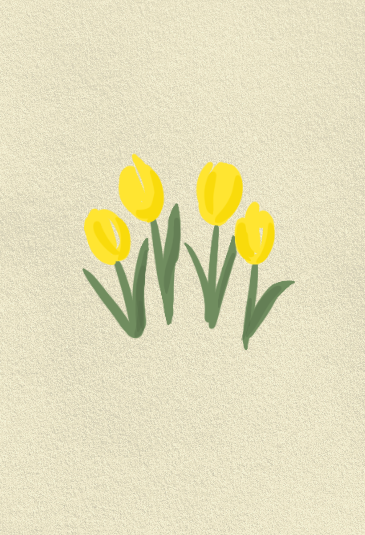
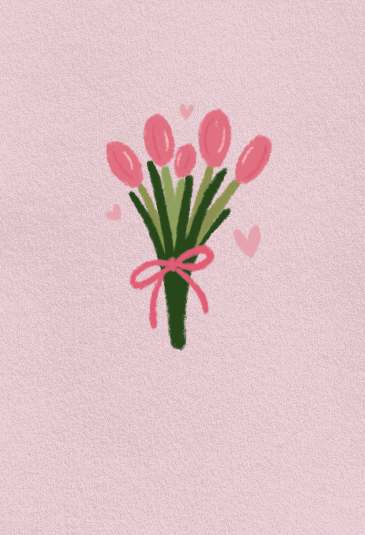
eee

diff --git a/public/stylesheets/style.css b/public/stylesheets/style.css
@@ -748,6 +748,7 @@ element.style {
   height: 81%;
   border-radius: 10px;
   box-shadow: 4px 7px 13px rgba(0, 0, 0, 0.2);
+  overflow: scroll;
 }
 
 #letterForm {
@@ -785,10 +786,10 @@ element.style {
 
 .letter-modal-close {
   color: #7d7c7c;
-  float: right;
   font-size: 28px;
   font-weight: bold;
-  margin-top: -65px;
+  position: absolute;
+  right: 35px;
 }
 
 .letter-modal-warn {
@@ -807,4 +808,24 @@ footer {
 
 .footer-copyright {
   font-weight: 700;
+}
+
+.cover-gallery {
+  display: flex;
+  flex-direction: column;
+  align-items: center;
+  justify-content: center;
+  padding: 10px;
+}
+
+.cover-images {
+  display: grid;
+  grid-template-columns: repeat(3, 1fr);
+  gap: 10px;
+  max-width: 600px;
+  margin: 20px auto;
+}
+
+.cover-image {
+  width: 100%;
 }

diff --git a/routes/index.js b/routes/index.js
@@ -29,9 +29,12 @@ router.post('/letter', function(req, res, next) {
       res.status(500).send({ message: 'Internal Server Error' });
     } else {
       try {
-        const { sender, content } = req.body;
+        const { sender, content, imgIndex } = req.body;
         let senderData = JSON.parse(data);
-        senderData.senderList.push(sender);
+        senderData.senderList.push({
+          "sender" : sender,
+          "imgIndex": imgIndex
+        });
 
         const letterFilPath = path.join(__dirname, `letters/letter-${Date.now()}.json`);
         let letterData = {
